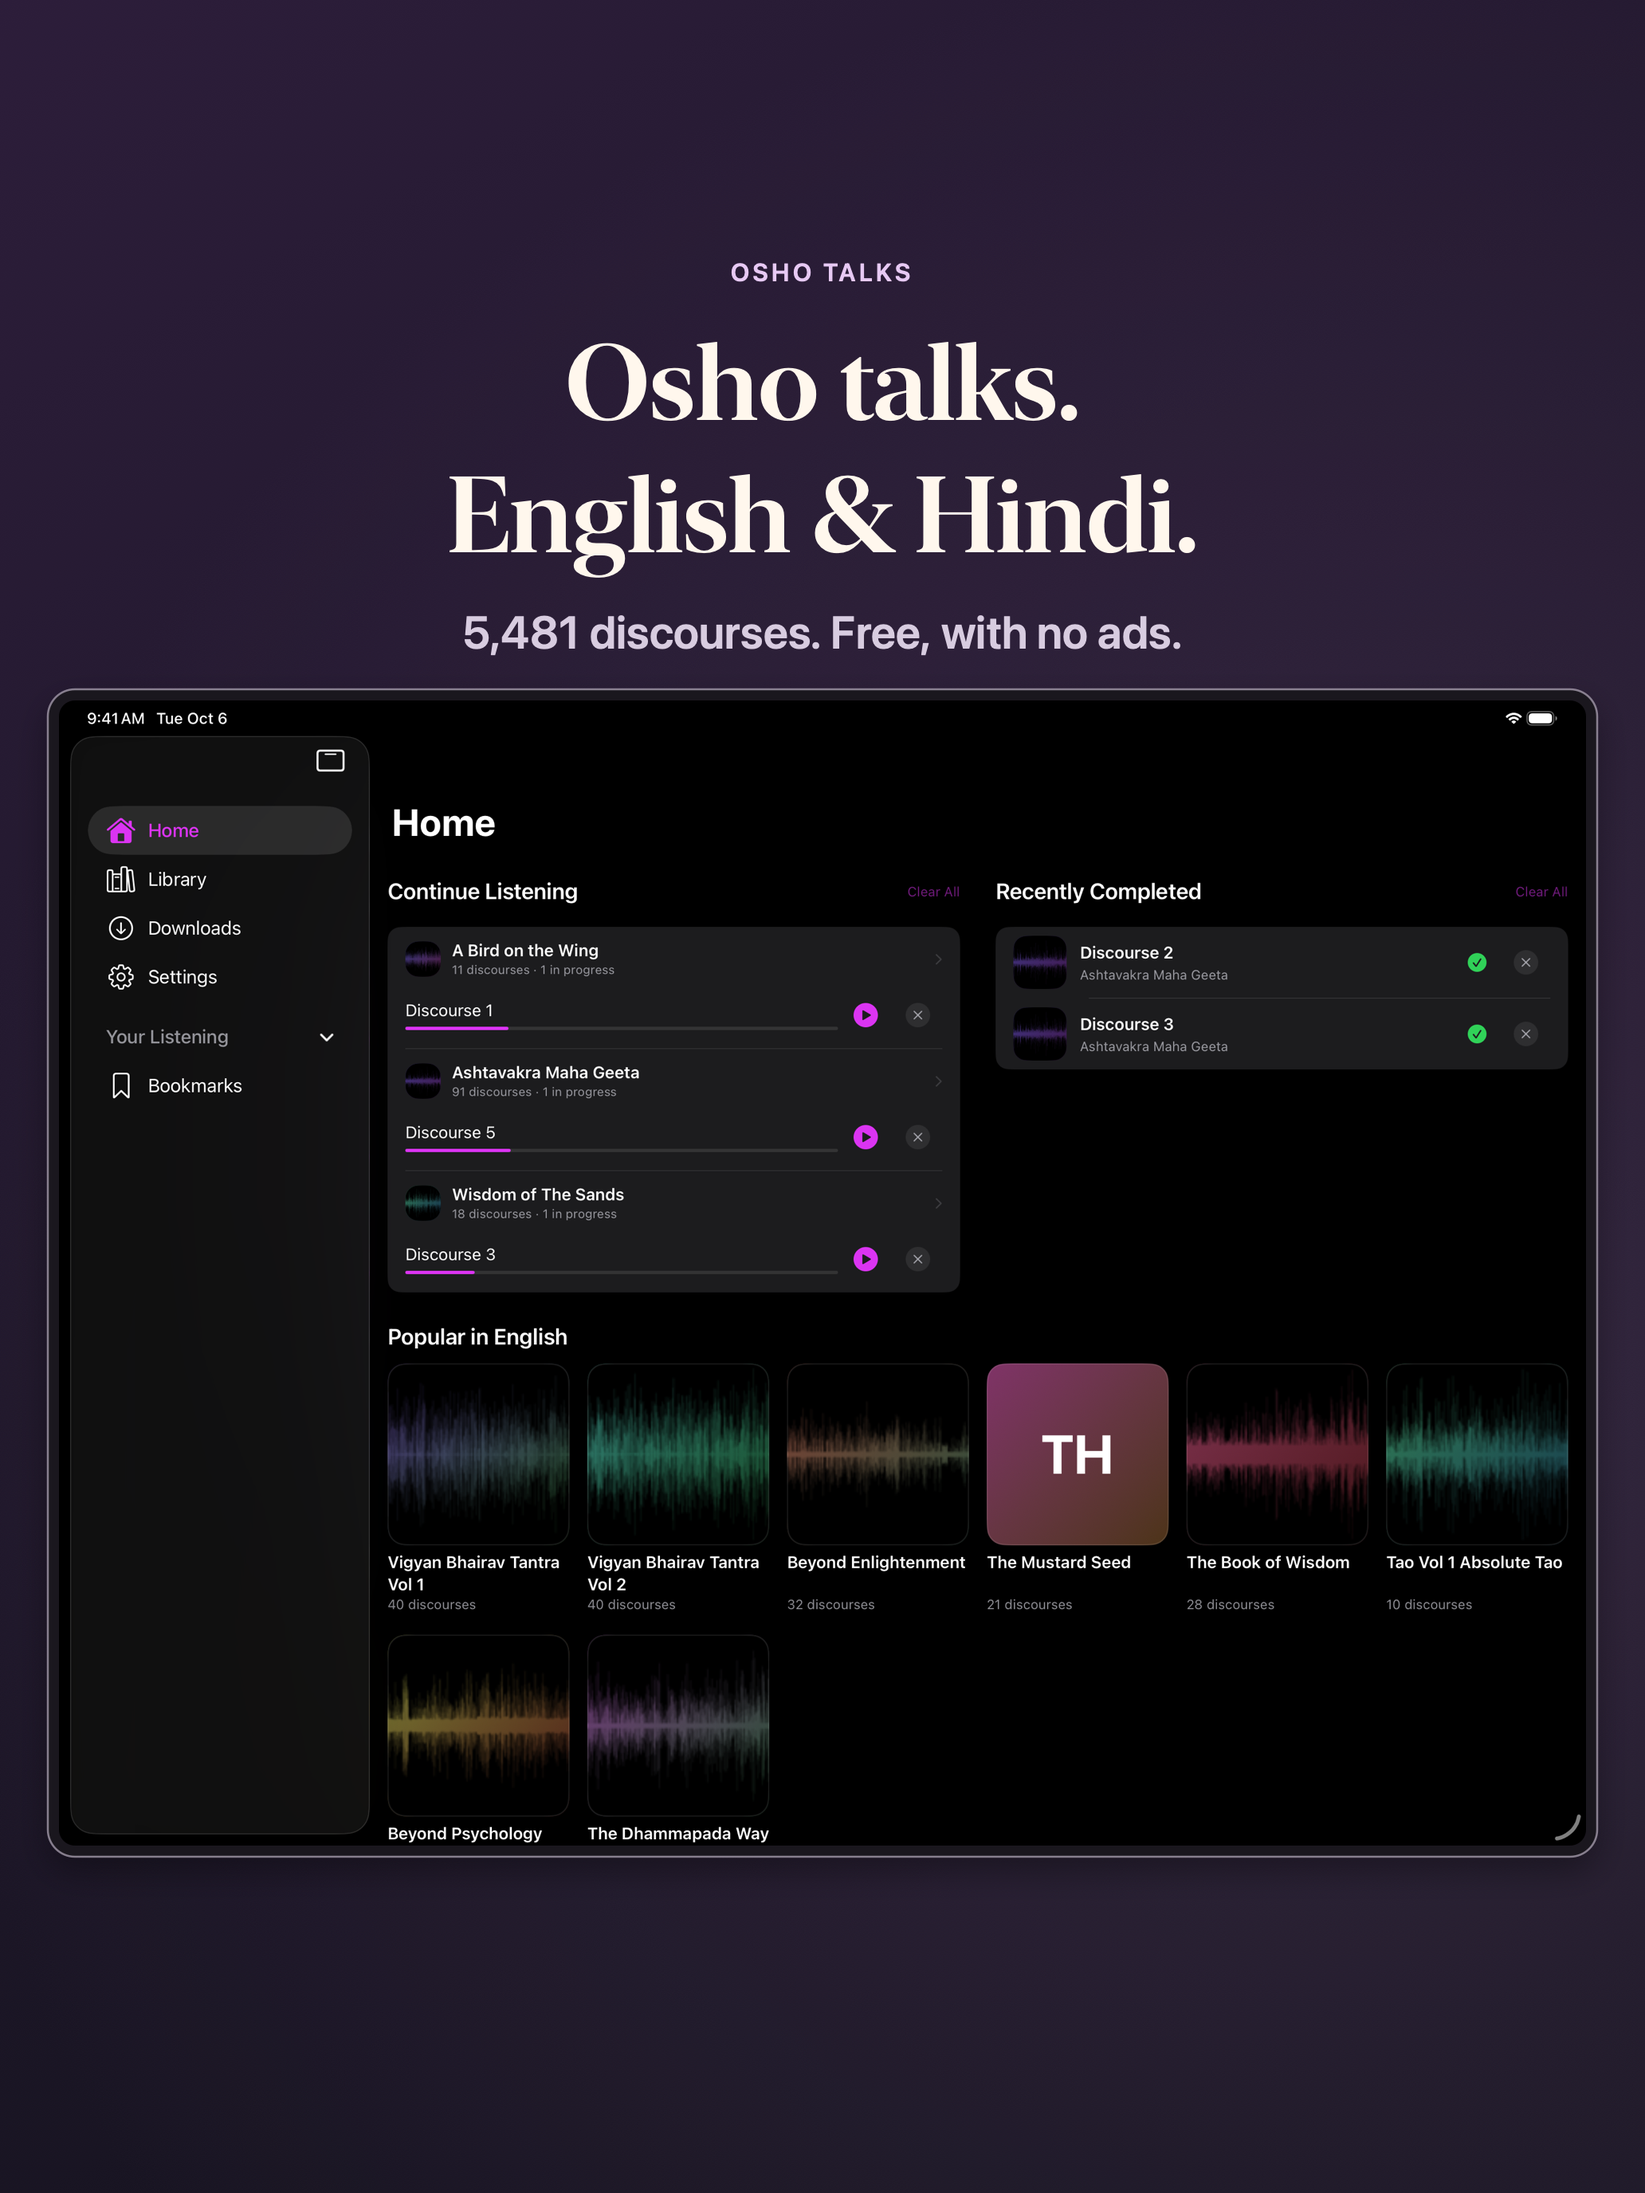
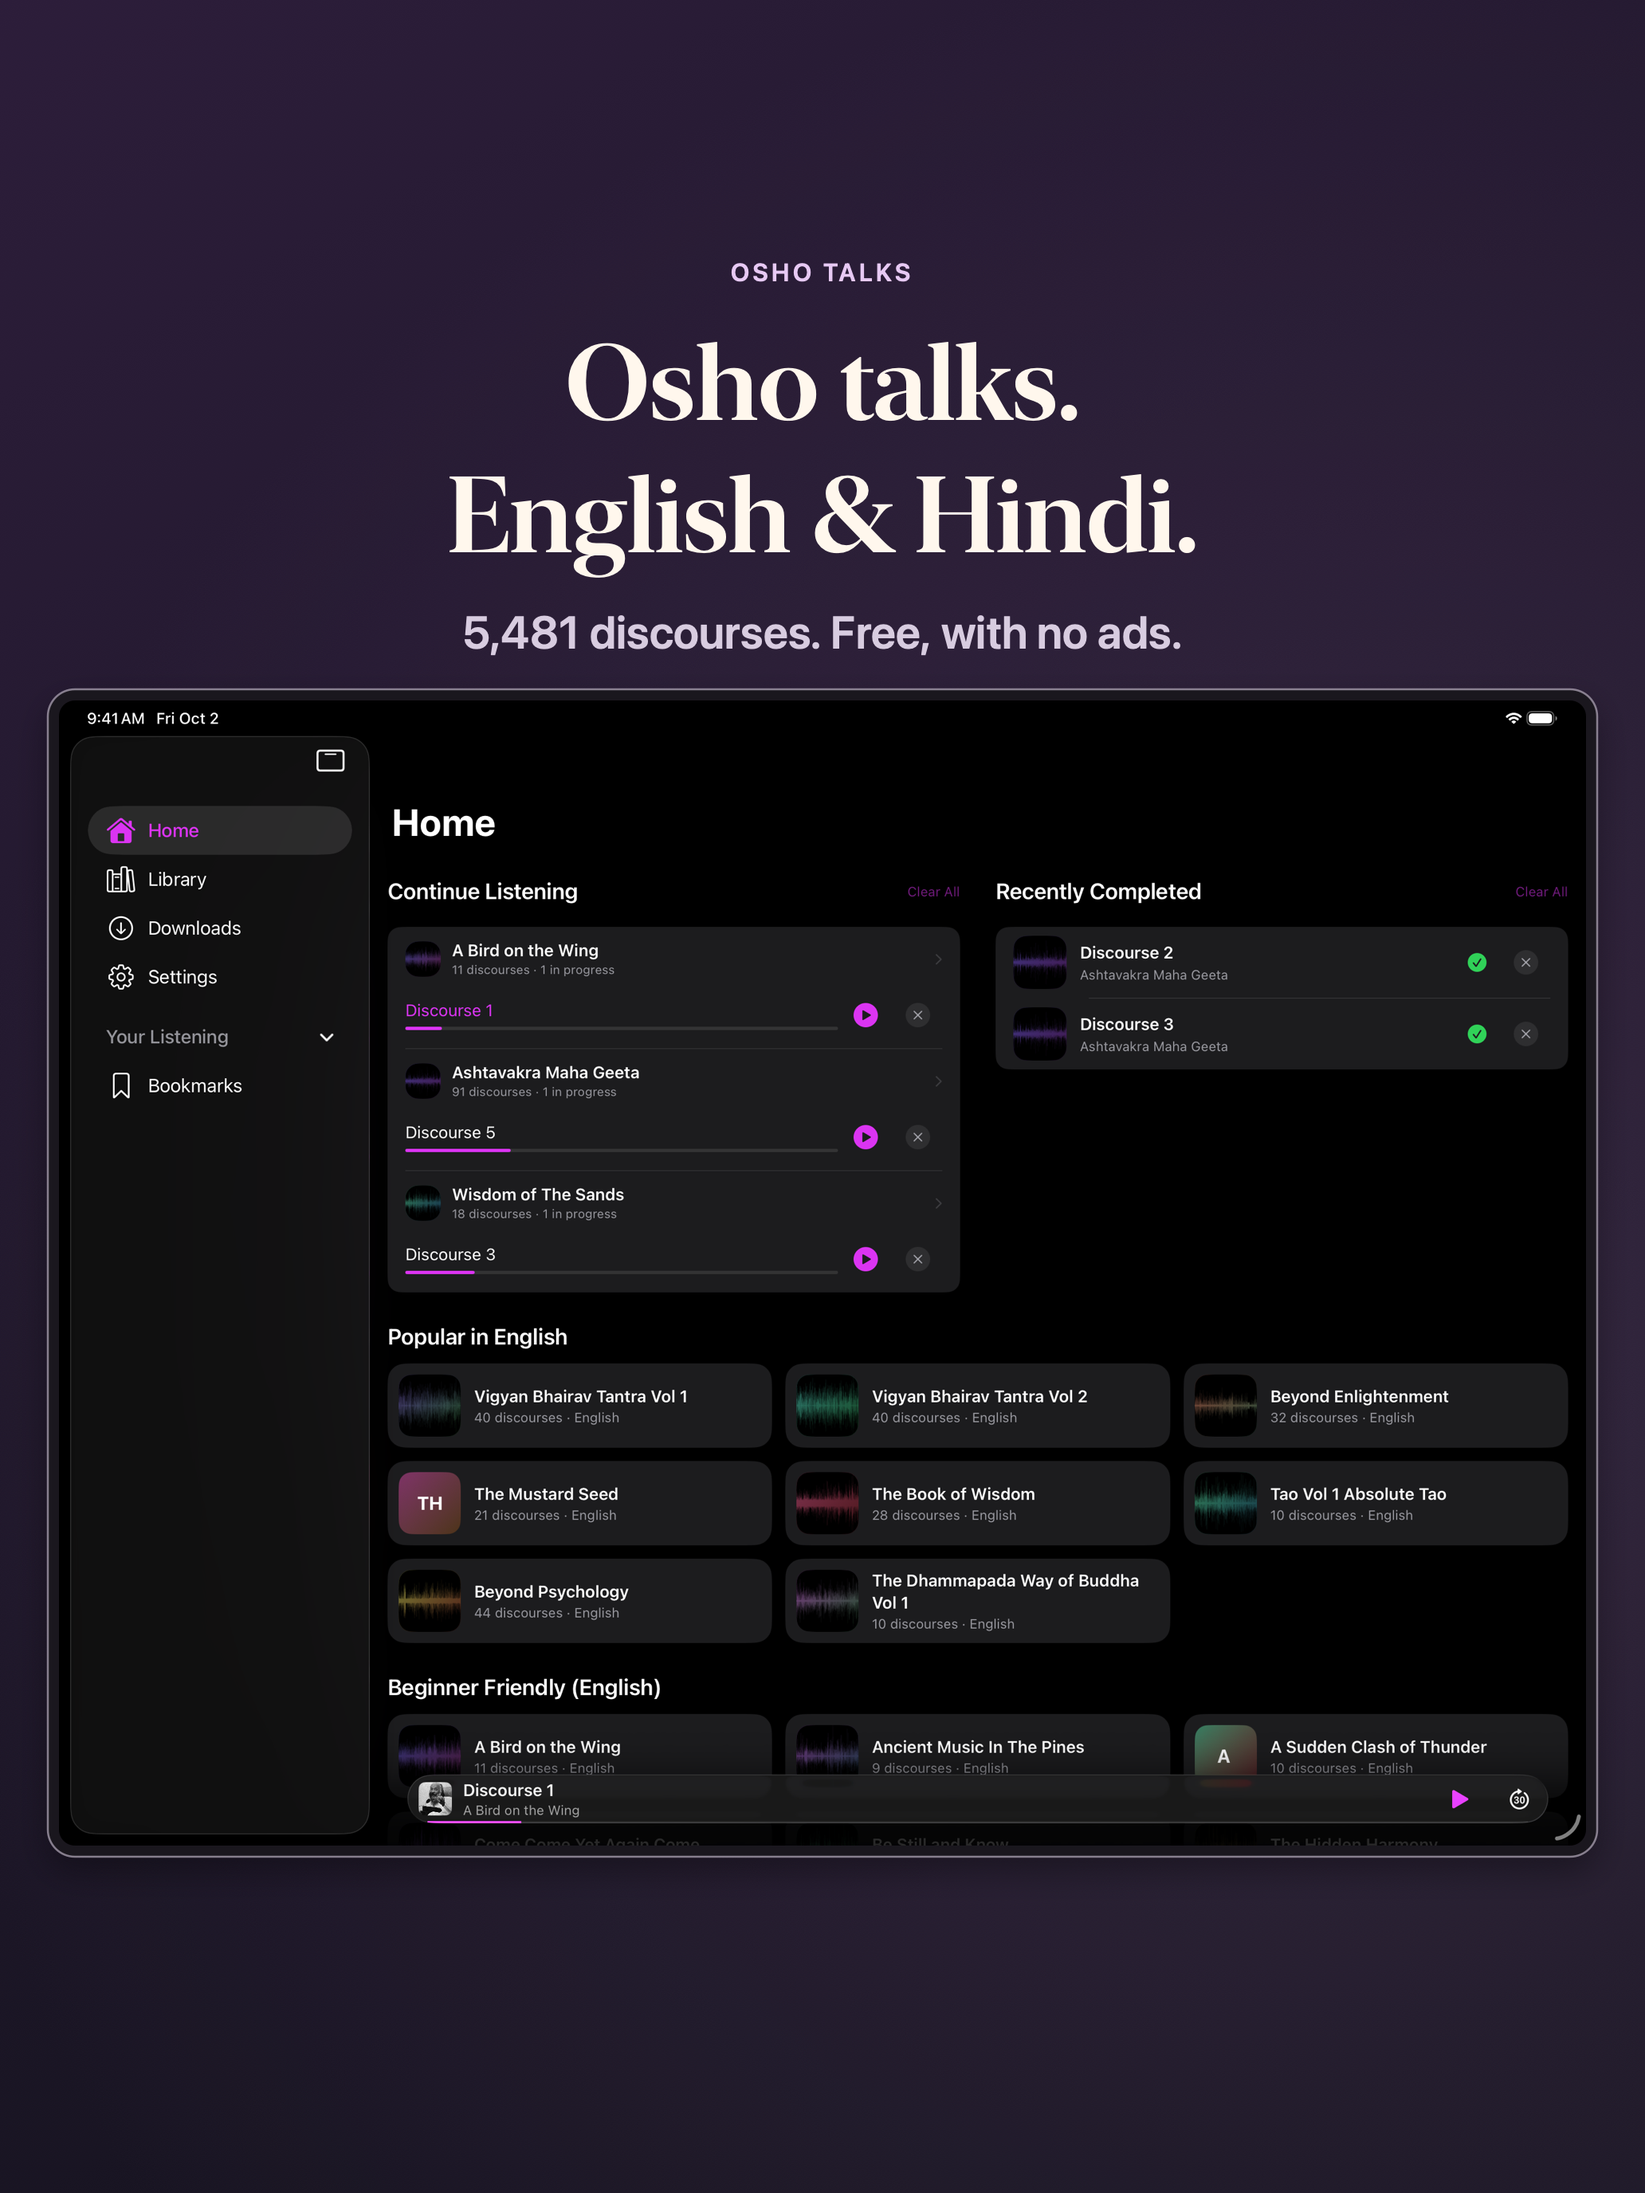
revert: Restore the compact Home collection cards

Changed region(s): [[0.2171, 0.5938, 0.9612, 0.8438]]

diff --git a/OshoDiscourses/Views/Home/HomeView.swift b/OshoDiscourses/Views/Home/HomeView.swift
@@ -320,13 +320,12 @@ private struct SeriesSectionView: View {
     let title: String
     let series: [SeriesInfo]
     var isRegular = false
-    @ScaledMetric(relativeTo: .subheadline) private var shelfCover: CGFloat = 132
-    @ScaledMetric(relativeTo: .subheadline) private var gridCover: CGFloat = 150
+    @ScaledMetric(relativeTo: .subheadline) private var tileMinWidth = AppLayout.gridMinimumCardWidth
 
     var body: some View {
-        VStack(alignment: .leading, spacing: isRegular ? 12 : 10) {
+        VStack(alignment: .leading, spacing: isRegular ? 12 : 8) {
             Text(title)
-                .font(.title3.bold())
+                .font(isRegular ? .title3.bold() : .subheadline.weight(.semibold))
                 .foregroundStyle(.primary)
                 .accessibilityAddTraits(.isHeader)
                 .padding(.horizontal)
@@ -334,11 +333,10 @@ private struct SeriesSectionView: View {
             if isRegular {
                 // A grid rather than a shelf: a pointer or trackpad has no
                 // natural horizontal scroll, and eight series fit in two rows.
-                LazyVGrid(columns: [GridItem(.adaptive(minimum: min(gridCover, 220)), spacing: 16, alignment: .top)],
-                          alignment: .leading, spacing: 20) {
+                LazyVGrid(columns: SeriesTileView.columns(minimum: tileMinWidth), spacing: 12) {
                     ForEach(series) { item in
                         NavigationLink(value: item) {
-                            SeriesCoverTile(series: item)
+                            SeriesTileView(series: item)
                         }
                         .buttonStyle(.plain)
                     }
@@ -352,11 +350,10 @@ private struct SeriesSectionView: View {
 
     private var shelf: some View {
         ScrollView(.horizontal, showsIndicators: false) {
-            LazyHStack(alignment: .top, spacing: 12) {
+            LazyHStack(spacing: 8) {
                 ForEach(series) { item in
                     NavigationLink(value: item) {
-                        SeriesCoverTile(series: item)
-                            .frame(width: min(shelfCover, 190))
+                        SeriesCardView(series: item)
                     }
                     .buttonStyle(.plain)
                 }
@@ -407,41 +404,32 @@ struct SeriesTileView: View {
     }
 }
 
-// MARK: - Series Cover Tile
+// MARK: - Series Card
 
-/// Home shelf and grid item: a square cover with the name below, so covers read at a
-/// useful size and long names wrap instead of truncating.
-private struct SeriesCoverTile: View {
+private struct SeriesCardView: View {
     let series: SeriesInfo
 
     var body: some View {
-        VStack(alignment: .leading, spacing: 6) {
-            Color.clear
-                .aspectRatio(1, contentMode: .fit)
-                .overlay {
-                    GeometryReader { proxy in
-                        SeriesThumbnailView(name: series.name, size: proxy.size.width, seriesID: series.id)
-                    }
-                }
+        HStack(spacing: 8) {
+            SeriesThumbnailView(name: series.name, size: 36, seriesID: series.id)
 
-            VStack(alignment: .leading, spacing: 2) {
-                // Two reserved lines keep a row of tiles aligned when some names are short.
+            VStack(alignment: .leading, spacing: 1) {
                 Text(series.name)
-                    .font(.subheadline.weight(.semibold))
+                    .font(.caption)
+                    .fontWeight(.medium)
                     .foregroundStyle(.primary)
-                    .lineLimit(2, reservesSpace: true)
-                    .multilineTextAlignment(.leading)
+                    .lineLimit(1)
 
                 Text("\(series.count) discourses")
-                    .font(.caption)
+                    .font(.caption2)
                     .foregroundStyle(.secondary)
-                    .lineLimit(1)
             }
         }
-        .contentShape(Rectangle())
-        .contentShape(.hoverEffect, RoundedRectangle(cornerRadius: 12, style: .continuous))
+        .padding(.horizontal, 10)
+        .padding(.vertical, 8)
+        .background(Color(.secondarySystemGroupedBackground))
+        .clipShape(RoundedRectangle(cornerRadius: 8))
         .hoverEffect(.highlight)
-        .accessibilityElement(children: .combine)
     }
 }
 
@@ -489,16 +477,12 @@ struct SeriesThumbnailView: View {
         ]
     }
 
-    /// Large covers round in proportion; small thumbnails keep their 12pt corners.
-    private var cornerRadius: CGFloat { max(12, size * 0.1) }
-    private var isArtwork: Bool { size > 64 }
-
     private var initials: String {
         String(name.prefix(2)).uppercased()
     }
 
     var body: some View {
-        RoundedRectangle(cornerRadius: cornerRadius, style: .continuous)
+        RoundedRectangle(cornerRadius: 12)
             .fill(
                 LinearGradient(
                     colors: gradientColors,
@@ -521,7 +505,7 @@ struct SeriesThumbnailView: View {
                         .resizable()
                         .scaledToFill()
                         .frame(width: size, height: size)
-                        .clipShape(RoundedRectangle(cornerRadius: cornerRadius, style: .continuous))
+                        .clipShape(RoundedRectangle(cornerRadius: 12))
                         // The 4:1 waveform lays out wider than the frame;
                         // clipShape clips drawing but NOT hit-testing — keep
                         // the overflow from swallowing taps near the row.
@@ -530,13 +514,6 @@ struct SeriesThumbnailView: View {
                     Text(initials)
                         .font(.system(size: size * 0.3, weight: .bold))
                         .foregroundStyle(.primary)
-                }
-            }
-            // Dark covers on a dark page need a defined edge once they are artwork-sized.
-            .overlay {
-                if isArtwork {
-                    RoundedRectangle(cornerRadius: cornerRadius, style: .continuous)
-                        .strokeBorder(Color.primary.opacity(0.1), lineWidth: 1)
                 }
             }
             // Purely decorative (waveform art or initials); the row's text

diff --git a/docs/app-store/screenshots/1.16.1/README.md b/docs/app-store/screenshots/1.16.1/README.md
@@ -16,10 +16,10 @@ draft on 2026-10-06; all 23 images are `COMPLETE` and match `manifest.json`.
 | Set | Images | Source builds |
 | --- | ---: | --- |
 | iPhone | 9 | 1.15.0 (26) |
-| iPad | 9 | 1.16.0 (28); `01-listen` and `04-explore` from 1.16.1 (30) |
+| iPad | 9 | 1.16.0 (28); `04-explore` from 1.16.1 (29) |
 | Apple Watch | 5 | 1.16.0 (28), unchanged |
 
-`raw/ipad/home.png` is the seeded landscape Home and `raw/ipad/home-popular.png` a fresh install's Home on `Osho Store iPad` (iPad Pro
+`raw/ipad/home-popular.png` is a fresh install's Home on `Osho Store iPad` (iPad Pro
 13-inch M4, iOS 26.5), dark appearance, no listening history. The screens shown did not
 change between the source builds, so the renderer ran with `--allow-mixed-builds`:
 
